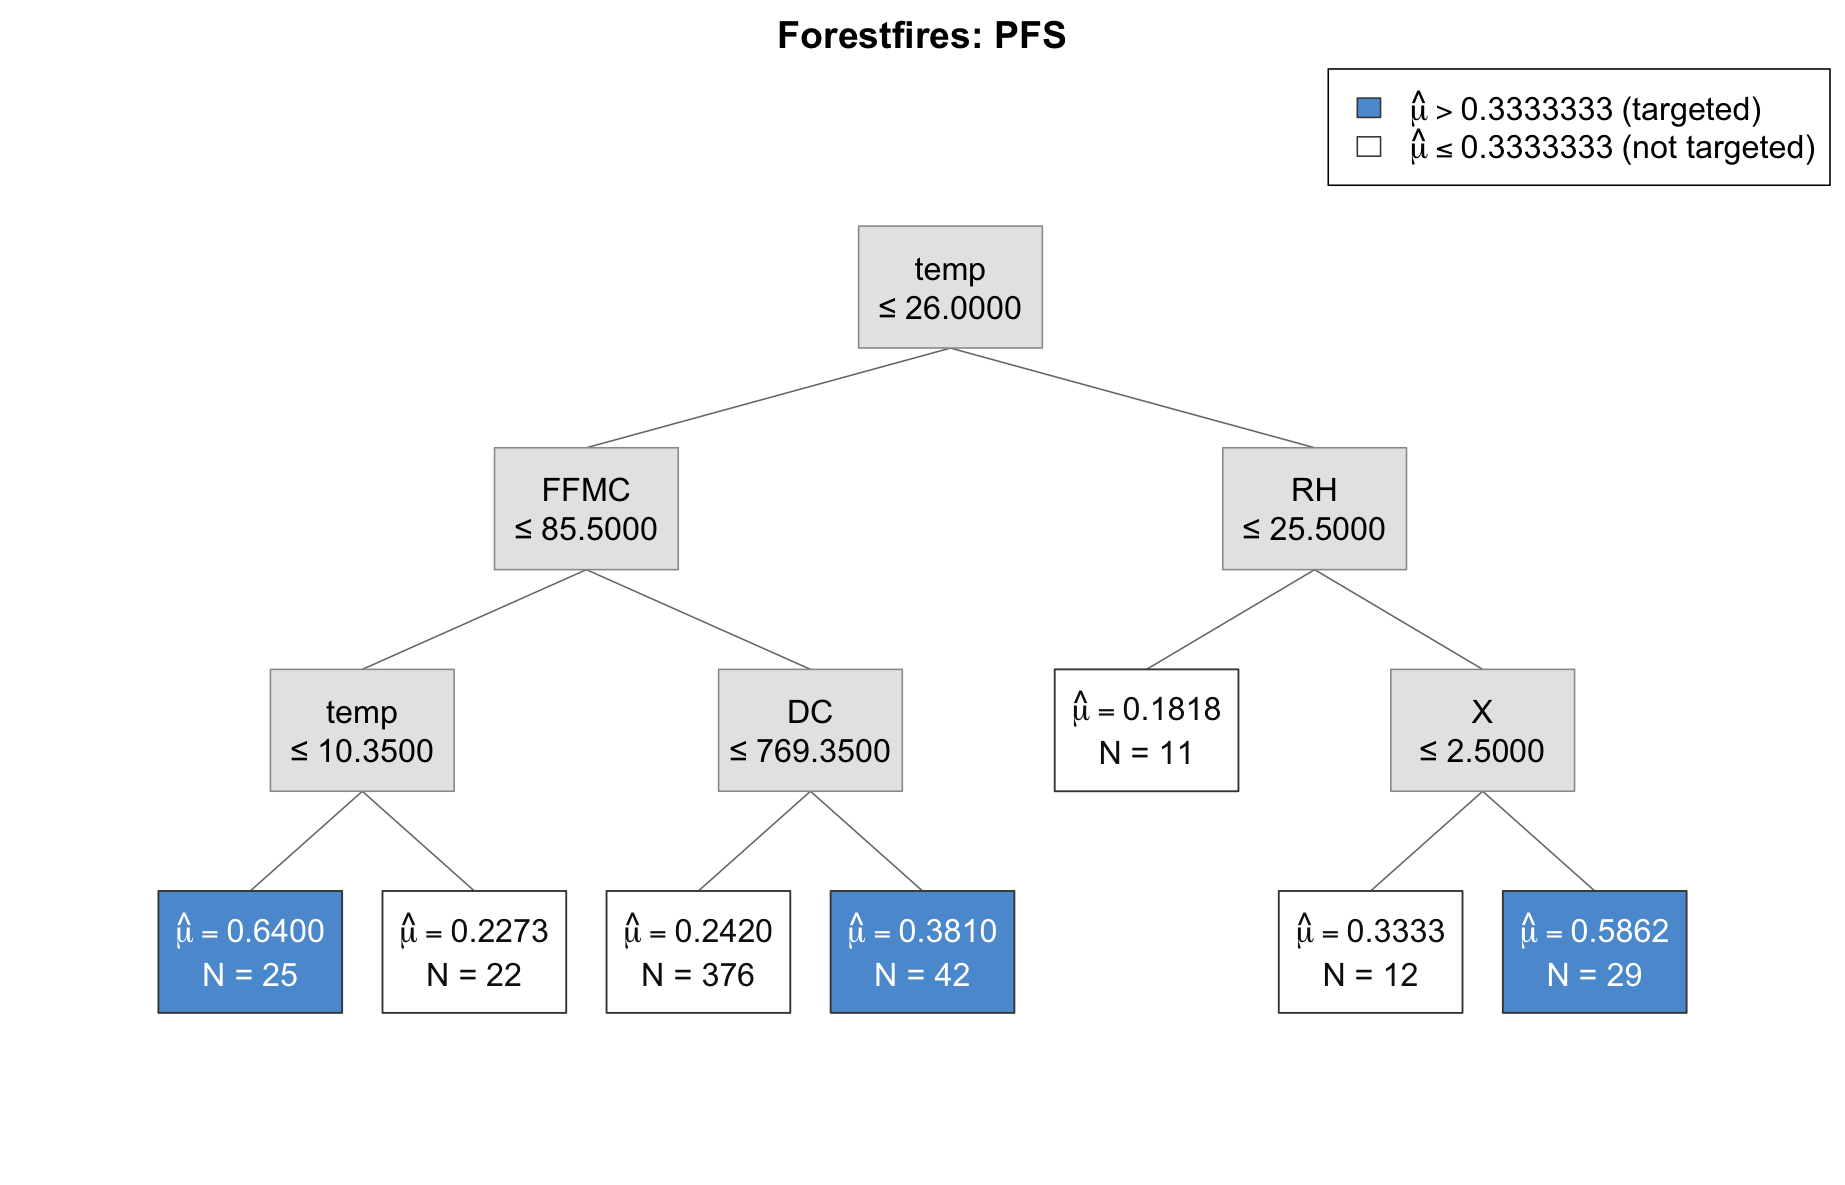
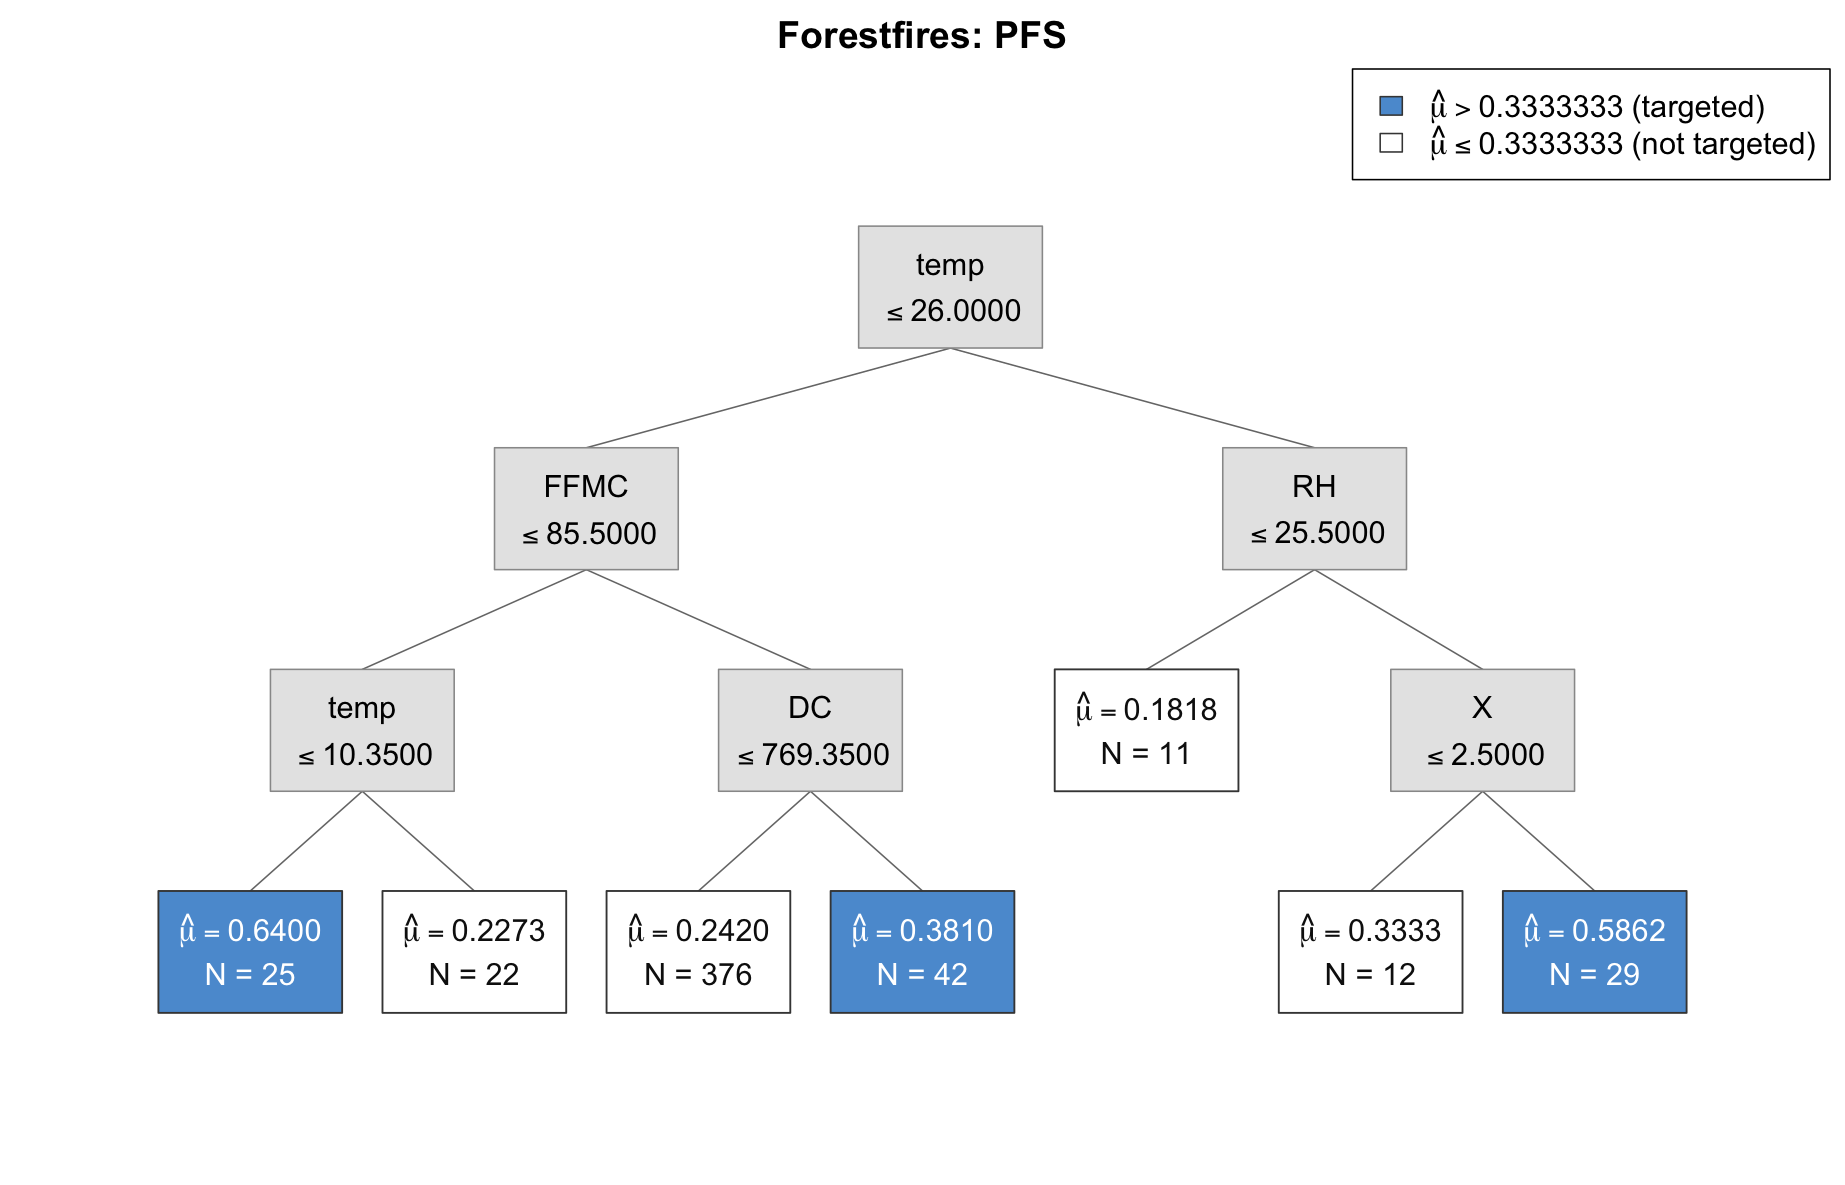
Render split operators with plotmath

diff --git a/README.md b/README.md
@@ -278,7 +278,9 @@ Two-line rules generally allow the automatic font size to be larger. The title
 is slightly larger than the node text by default; set `title_font_size` to a
 positive point size, such as `title_font_size = 18`, to control it directly.
 Terminal-node means and legend labels use mathematical typesetting for
-`hat(mu)`, so the accent is centered over the Greek letter.
+`hat(mu)`, so the accent is centered over the Greek letter. Numeric split rules
+also use mathematical typesetting, ensuring that `<=` renders as a true `≤` in
+PNG, PDF, and SVG output without font-encoding warnings.
 
 ## Getting help
 
